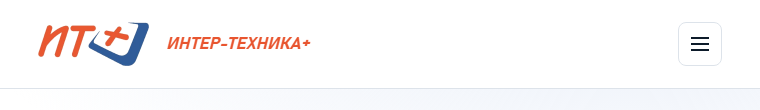
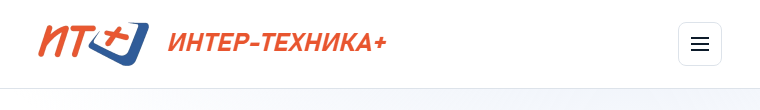
Надпись в шапке: минимум 1,6rem; снято перекрывавшее правило 1,05rem

Changed region(s): [[0.2118, 0.3, 0.5145, 0.4636]]

diff --git a/assets/style.css b/assets/style.css
@@ -165,7 +165,7 @@ p:last-child { margin-bottom: 0; }
 
 .brand-name {
   font-family: var(--font-display);
-  font-size: clamp(1.4rem, 3.05vw, 2.75rem);
+  font-size: clamp(1.6rem, 3.05vw, 2.75rem);
   font-weight: 700;
   font-style: italic;
   text-transform: uppercase;
@@ -802,7 +802,6 @@ p:last-child { margin-bottom: 0; }
 @media (max-width: 1020px) {
   .hero-grid { grid-template-columns: minmax(0, 1fr) minmax(0, .8fr); }
   .nav { gap: 16px; }
-  .brand-name { font-size: 1.05rem; }
 }
 
 @media (max-width: 900px) {
